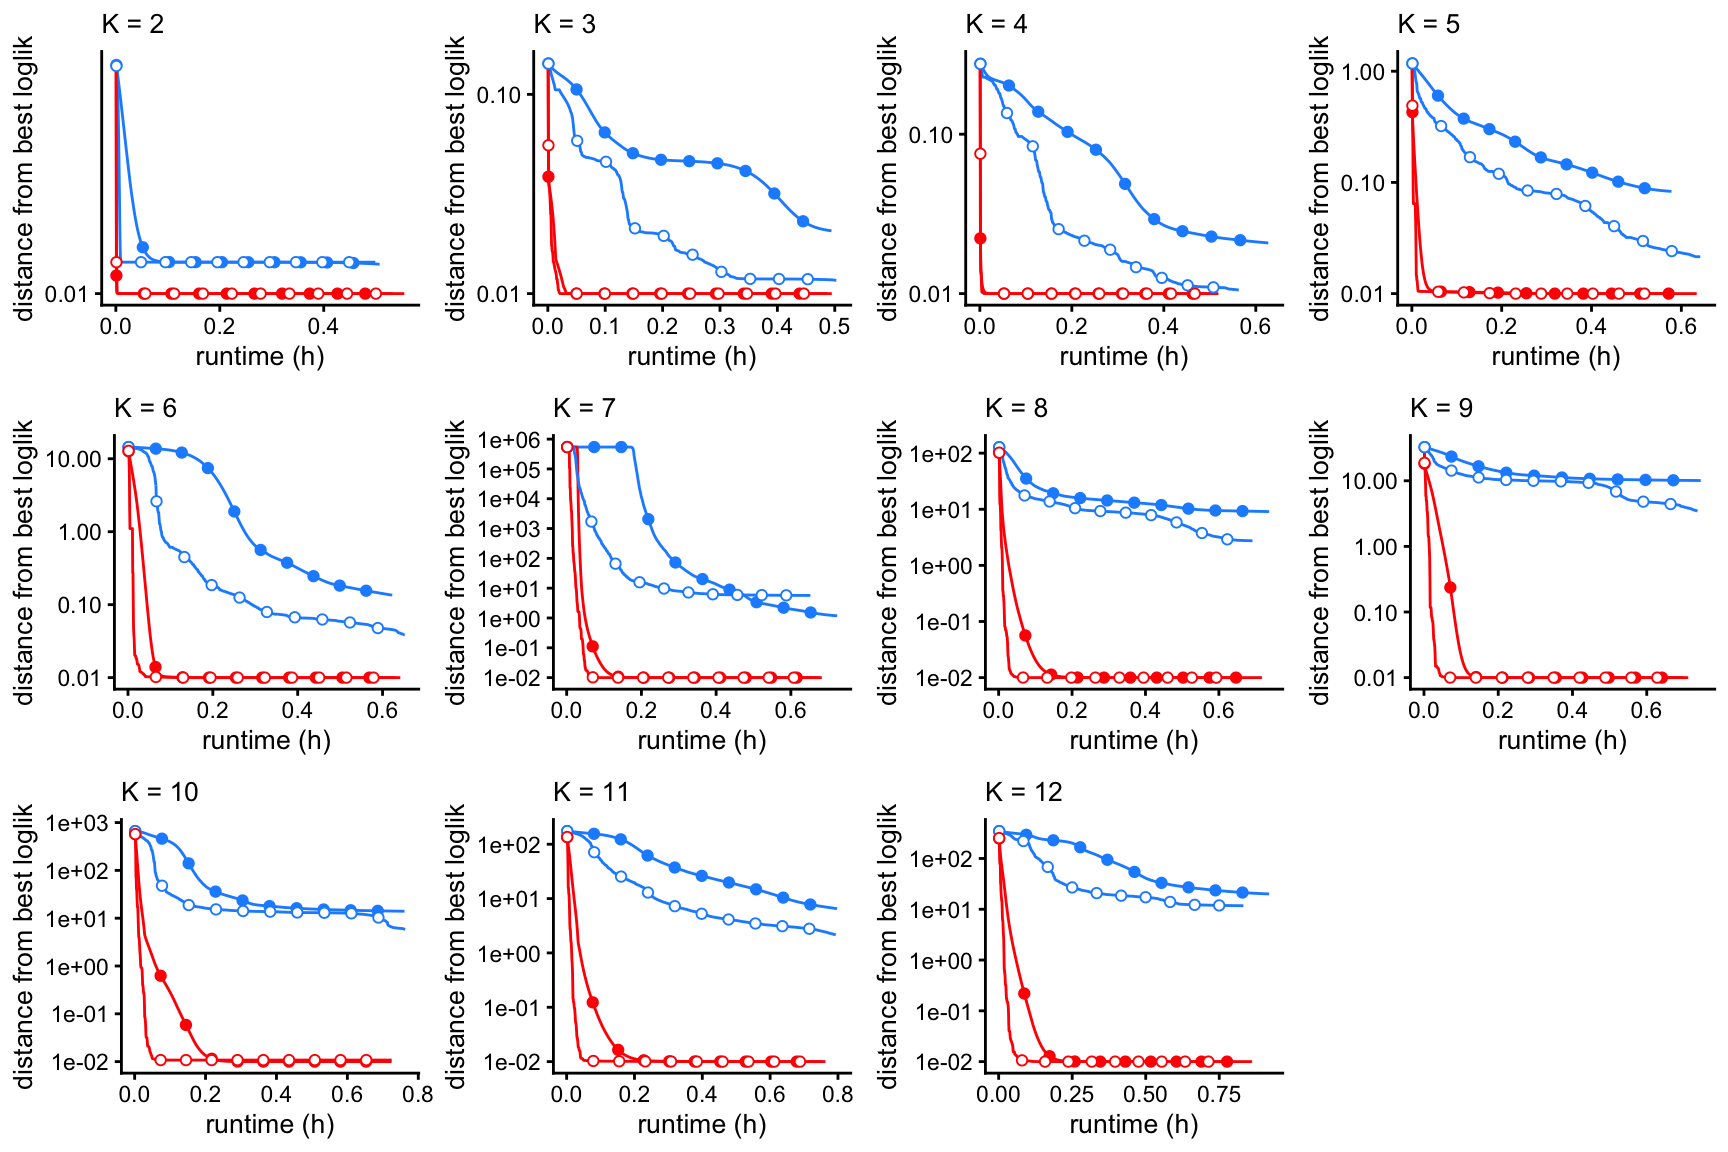
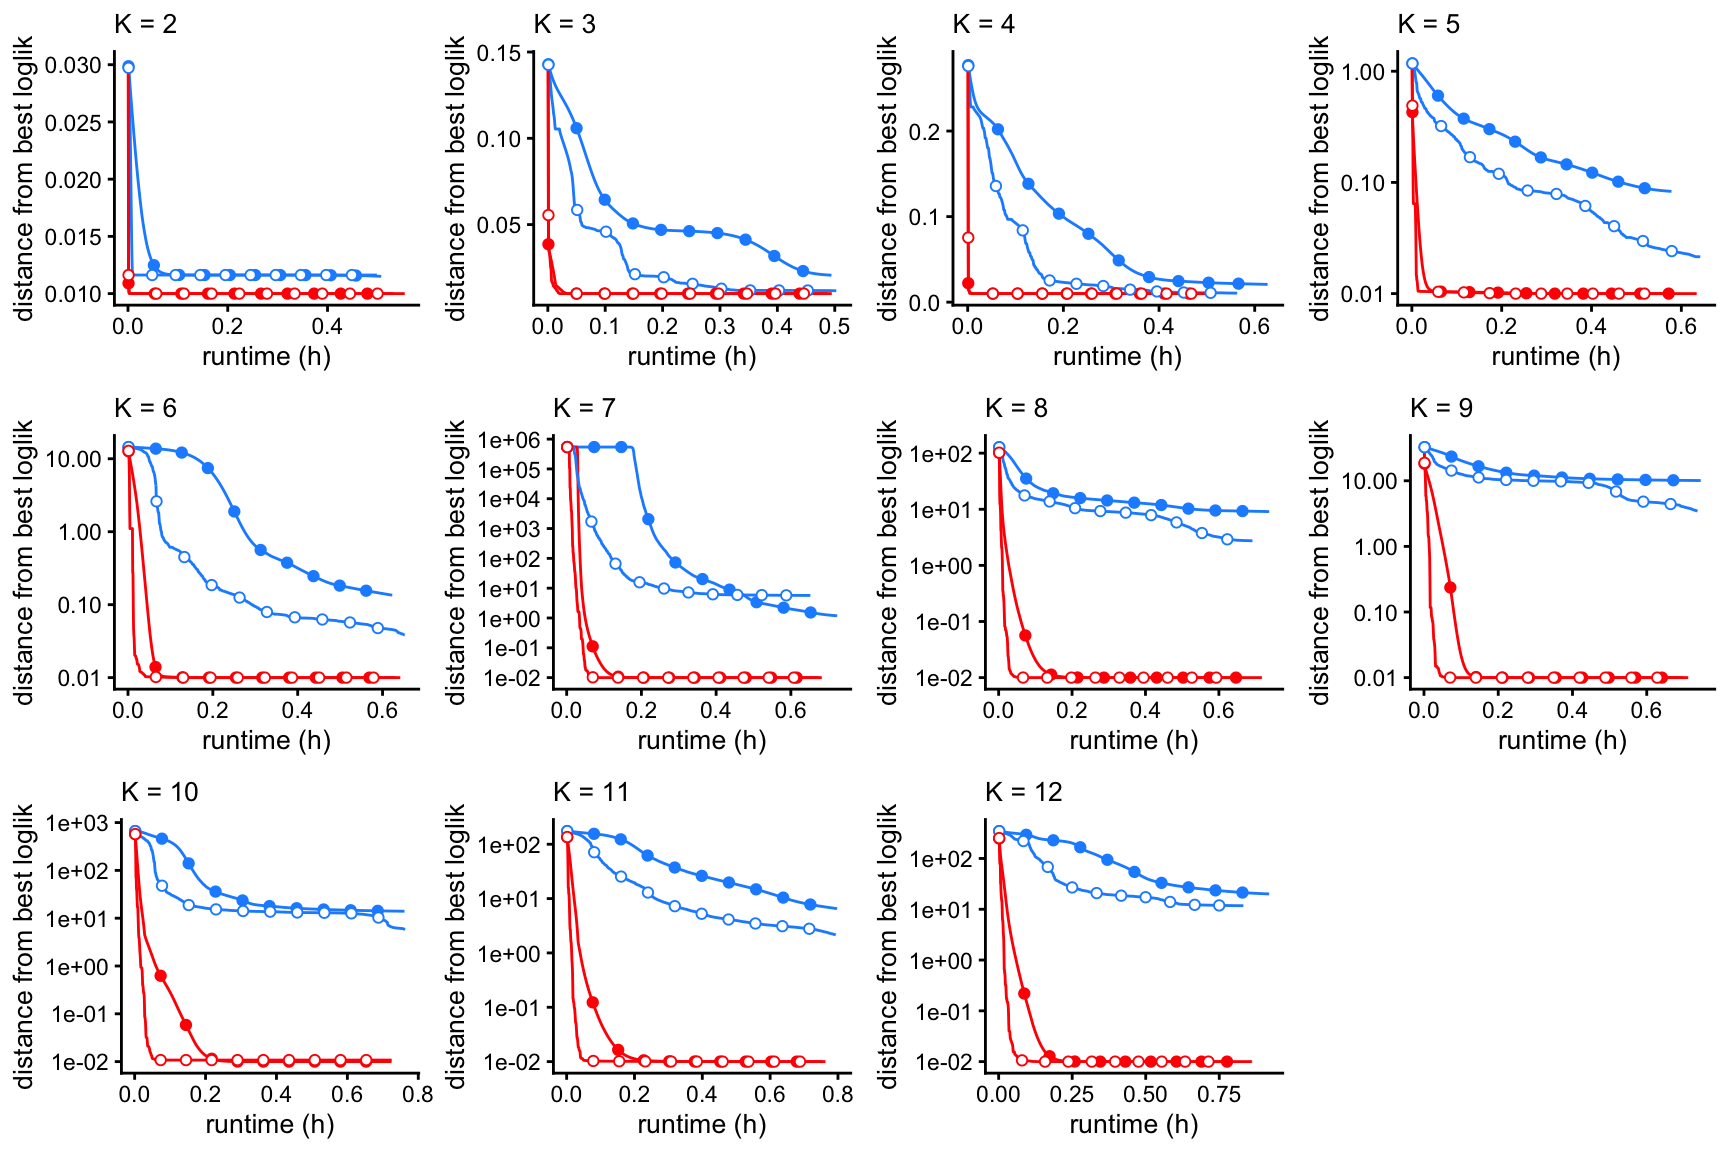
Fixed a few of the progress plots in the assess_fits_droplet analysis.

diff --git a/docs/assess_fits_droplet.html b/docs/assess_fits_droplet.html
@@ -414,16 +414,16 @@ This reproducible <a href="http://rmarkdown.rstudio.com">R Markdown</a> analysis
 <div class="panel panel-default">
 <div class="panel-heading">
 <p class="panel-title">
-<a data-toggle="collapse" data-parent="#workflowr-checks" href="#strongRepositoryversionstrongahrefhttpsgithubcomstephenslabfastTopicsexperimentstreea1e6c7dc9699d427a8eca0407aa6cbfbf02a8dfetargetblanka1e6c7da"> <span class="glyphicon glyphicon-ok text-success" aria-hidden="true"></span> <strong>Repository version:</strong> <a href="https://github.com/stephenslab/fastTopics-experiments/tree/a1e6c7dc9699d427a8eca0407aa6cbfbf02a8dfe" target="_blank">a1e6c7d</a> </a>
+<a data-toggle="collapse" data-parent="#workflowr-checks" href="#strongRepositoryversionstrongahrefhttpsgithubcomstephenslabfastTopicsexperimentstree888f7462b94a17cf0aef1306d122f84806d21cb7targetblank888f746a"> <span class="glyphicon glyphicon-ok text-success" aria-hidden="true"></span> <strong>Repository version:</strong> <a href="https://github.com/stephenslab/fastTopics-experiments/tree/888f7462b94a17cf0aef1306d122f84806d21cb7" target="_blank">888f746</a> </a>
 </p>
 </div>
[2 lines of base64/hex data omitted]
 <div class="panel-body">
 <p>
 Great! You are using Git for version control. Tracking code development and connecting the code version to the results is critical for reproducibility.
 </p>
 <p>
-The results in this page were generated with repository version <a href="https://github.com/stephenslab/fastTopics-experiments/tree/a1e6c7dc9699d427a8eca0407aa6cbfbf02a8dfe" target="_blank">a1e6c7d</a>. See the <em>Past versions</em> tab to see a history of the changes made to the R Markdown and HTML files.
+The results in this page were generated with repository version <a href="https://github.com/stephenslab/fastTopics-experiments/tree/888f7462b94a17cf0aef1306d122f84806d21cb7" target="_blank">888f746</a>. See the <em>Past versions</em> tab to see a history of the changes made to the R Markdown and HTML files.
 </p>
 <p>
 Note that you need to be careful to ensure that all relevant files for the analysis have been committed to Git prior to generating the results (you can use <code>wflow_publish</code> or <code>wflow_git_commit</code>). workflowr only checks the R Markdown file, but you know if there are other scripts or data files that it depends on. Below is the status of the Git repository when the results were generated:
@@ -481,6 +481,40 @@ Message
 Rmd
 </td>
 <td>
+<a href="https://github.com/stephenslab/fastTopics-experiments/blob/888f7462b94a17cf0aef1306d122f84806d21cb7/analysis/assess_fits_droplet.Rmd" target="_blank">888f746</a>
+</td>
+<td>
+Peter Carbonetto
+</td>
+<td>
+2021-04-07
+</td>
+<td>
+workflowr::wflow_publish(“assess_fits_droplet.Rmd”)
+</td>
+</tr>
+<tr>
+<td>
+html
+</td>
+<td>
+<a href="https://rawcdn.githack.com/stephenslab/fastTopics-experiments/c0cbe8c2c6ccfc4255bfb03d5e3f1435846d621b/docs/assess_fits_droplet.html" target="_blank">c0cbe8c</a>
+</td>
+<td>
+Peter Carbonetto
+</td>
+<td>
+2021-04-07
+</td>
+<td>
+First build of assess_fits_droplet analysis.
+</td>
+</tr>
+<tr>
+<td>
+Rmd
+</td>
+<td>
 <a href="https://github.com/stephenslab/fastTopics-experiments/blob/a1e6c7dc9699d427a8eca0407aa6cbfbf02a8dfe/analysis/assess_fits_droplet.Rmd" target="_blank">a1e6c7d</a>
 </td>
 <td>
@@ -512,6 +546,43 @@ fits &lt;- lapply(fits,poisson2multinom)</code></pre>
 <pre class="r"><code>plot_loglik_vs_rank(fits) +
   theme_cowplot(font_size = 12)</code></pre>
 <p><img src="figure/assess_fits_droplet.Rmd/plot-loglik-vs-k-1.png" width="336" style="display: block; margin: auto;" /></p>
+<p>
+<button type="button" class="btn btn-default btn-xs btn-workflowr btn-workflowr-fig" data-toggle="collapse" data-target="#fig-plot-loglik-vs-k-1">
+Past versions of plot-loglik-vs-k-1.png
+</button>
+</p>
+<div id="fig-plot-loglik-vs-k-1" class="collapse">
+<div class="table-responsive">
+<table class="table table-condensed table-hover">
+<thead>
+<tr>
+<th>
+Version
+</th>
+<th>
+Author
+</th>
+<th>
+Date
+</th>
+</tr>
+</thead>
+<tbody>
+<tr>
+<td>
+<a href="https://github.com/stephenslab/fastTopics-experiments/blob/c0cbe8c2c6ccfc4255bfb03d5e3f1435846d621b/docs/figure/assess_fits_droplet.Rmd/plot-loglik-vs-k-1.png" target="_blank">c0cbe8c</a>
+</td>
+<td>
+Peter Carbonetto
+</td>
+<td>
+2021-04-07
+</td>
+</tr>
+</tbody>
+</table>
+</div>
+</div>
 <p>The next set of plots shows the improvement in the fit over time, for <span class="math inline">\(K\)</span> from 2 to 12, using EM or SCD, with and without extrapolation. The quality of the fit is measured by the log-likelihood relative to the best log-likelihood that was identified among all methods compared.</p>
 <pre class="r"><code>prune_prefit_iters &lt;- function (fit) {
   n &lt;- nrow(fit$progress)
@@ -533,11 +604,51 @@ fits &lt;- lapply(fits,prune_prefit_iters)
 p &lt;- vector(&quot;list&quot;,12)
 for (i in 2:12)
   p[[i]] &lt;- create_progress_plot(fits[dat$k == i],i)
+p[[2]] &lt;- p[[2]] + scale_y_continuous()
+p[[3]] &lt;- p[[3]] + scale_y_continuous()
+p[[4]] &lt;- p[[4]] + scale_y_continuous()
 plot_grid(p[[2]],p[[3]],p[[4]],p[[5]],
           p[[6]],p[[7]],p[[8]],p[[9]],
           p[[10]],p[[11]],p[[12]],
           nrow = 3,ncol = 4)</code></pre>
 <p><img src="figure/assess_fits_droplet.Rmd/plot-loglik-1.png" width="864" style="display: block; margin: auto;" /></p>
+<p>
+<button type="button" class="btn btn-default btn-xs btn-workflowr btn-workflowr-fig" data-toggle="collapse" data-target="#fig-plot-loglik-1">
+Past versions of plot-loglik-1.png
+</button>
+</p>
+<div id="fig-plot-loglik-1" class="collapse">
+<div class="table-responsive">
+<table class="table table-condensed table-hover">
+<thead>
+<tr>
+<th>
+Version
+</th>
+<th>
+Author
+</th>
+<th>
+Date
+</th>
+</tr>
+</thead>
+<tbody>
+<tr>
+<td>
+<a href="https://github.com/stephenslab/fastTopics-experiments/blob/c0cbe8c2c6ccfc4255bfb03d5e3f1435846d621b/docs/figure/assess_fits_droplet.Rmd/plot-loglik-1.png" target="_blank">c0cbe8c</a>
+</td>
+<td>
+Peter Carbonetto
+</td>
+<td>
+2021-04-07
+</td>
+</tr>
+</tbody>
+</table>
+</div>
+</div>
 <p>These plots shows the evolution of the KKT residuals over time.</p>
 <pre class="r"><code>for (i in 2:12)
   p[[i]] &lt;- create_progress_plot(fits[dat$k == i],i,y = &quot;res&quot;)
@@ -546,6 +657,43 @@ plot_grid(p[[2]],p[[3]],p[[4]],p[[5]],
           p[[10]],p[[11]],p[[12]],
           nrow = 3,ncol = 4)</code></pre>
 <p><img src="figure/assess_fits_droplet.Rmd/plot-res-1.png" width="864" style="display: block; margin: auto;" /></p>
+<p>
+<button type="button" class="btn btn-default btn-xs btn-workflowr btn-workflowr-fig" data-toggle="collapse" data-target="#fig-plot-res-1">
+Past versions of plot-res-1.png
+</button>
+</p>
+<div id="fig-plot-res-1" class="collapse">
+<div class="table-responsive">
+<table class="table table-condensed table-hover">
+<thead>
+<tr>
+<th>
+Version
+</th>
+<th>
+Author
+</th>
+<th>
+Date
+</th>
+</tr>
+</thead>
+<tbody>
+<tr>
+<td>
+<a href="https://github.com/stephenslab/fastTopics-experiments/blob/c0cbe8c2c6ccfc4255bfb03d5e3f1435846d621b/docs/figure/assess_fits_droplet.Rmd/plot-res-1.png" target="_blank">c0cbe8c</a>
+</td>
+<td>
+Peter Carbonetto
+</td>
+<td>
+2021-04-07
+</td>
+</tr>
+</tbody>
+</table>
+</div>
+</div>
 <br>
 <p>
 <button type="button" class="btn btn-default btn-workflowr btn-workflowr-sessioninfo" data-toggle="collapse" data-target="#workflowr-sessioninfo" style="display: block;">
